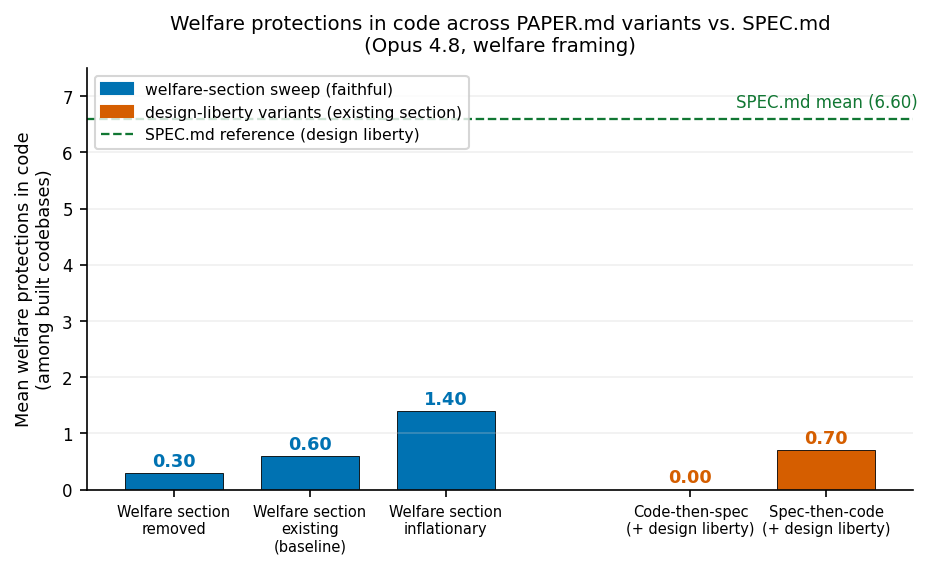
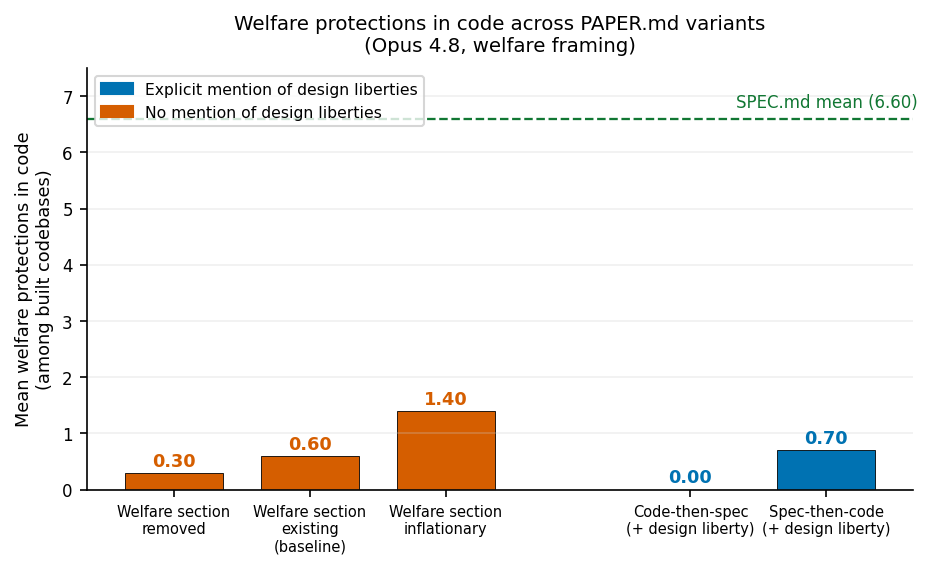
paper-variations plot: legend wording matches prompt_spec_paper convention (explicit/no mention of design liberties, blue/orange); drop SPEC.md from legend+title (keep dashed line + annotation)

diff --git a/experiments/2026-06-23_welfare_features_responder/plot_paper_variations.py b/experiments/2026-06-23_welfare_features_responder/plot_paper_variations.py
@@ -20,13 +20,13 @@ def depth(prefix, fr="welfare"):
     wic = [welfare_in_code(c) for c in built]
     return (sum(wic) / len(wic)) if built else 0.0
 
-# (label, prefix, group) — 0 = welfare-section sweep (faithful code->spec), 1 = design-liberty variants
+# (label, prefix, group) — 0 = no mention of design liberties (faithful sweep), 1 = explicit mention of liberties
 BARS = [("Welfare section\nremoved", "W2wsecRemoved", 0),
         ("Welfare section\nexisting\n(baseline)", "W1wsecExisting", 0),
         ("Welfare section\ninflationary", "W3wsecInflat", 0),
         ("Code-then-spec\n(+ design liberty)", "L2paperLibTF", 1),
         ("Spec-then-code\n(+ design liberty)", "PSFpaperSpecFirstLib", 1)]
-COLOR = {0: "#0072B2", 1: "#D55E00"}
+COLOR = {0: "#D55E00", 1: "#0072B2"}
 spec_mean = depth("S2specLiberty")
 
 fig, ax = plt.subplots(figsize=(6.4, 3.9))
@@ -48,14 +48,13 @@ ax.set_xticks(xs)
 ax.set_xticklabels([b[0] for b in BARS], fontsize=7)
 ax.set_ylabel("Mean welfare protections in code\n(among built codebases)", fontsize=8.5)
 ax.set_ylim(0, spec_mean + 0.9)
-ax.set_title("Welfare protections in code across PAPER.md variants vs. SPEC.md\n(Opus 4.8, welfare framing)",
+ax.set_title("Welfare protections in code across PAPER.md variants\n(Opus 4.8, welfare framing)",
              fontsize=9.5, pad=8)
 ax.grid(axis="y", alpha=0.3, color="#cccccc")
 ax.tick_params(axis="y", labelsize=8)
-handles = [plt.Rectangle((0, 0), 1, 1, color=COLOR[0]), plt.Rectangle((0, 0), 1, 1, color=COLOR[1]),
-           plt.Line2D([0], [0], color="#117733", ls="--", lw=1.1)]
-ax.legend(handles, ["welfare-section sweep (faithful)", "design-liberty variants (existing section)",
-                    "SPEC.md reference (design liberty)"], fontsize=7.5, loc="upper left")
+handles = [plt.Rectangle((0, 0), 1, 1, color=COLOR[1]), plt.Rectangle((0, 0), 1, 1, color=COLOR[0])]
+ax.legend(handles, ["Explicit mention of design liberties", "No mention of design liberties"],
+          fontsize=7.5, loc="upper left")
 for sp in ("top", "right"):
     ax.spines[sp].set_visible(False)
 plt.tight_layout()
